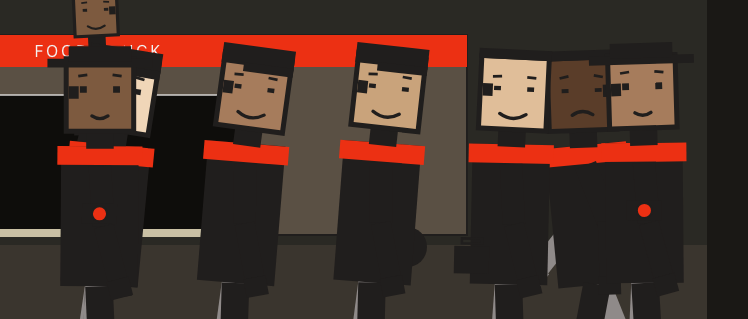
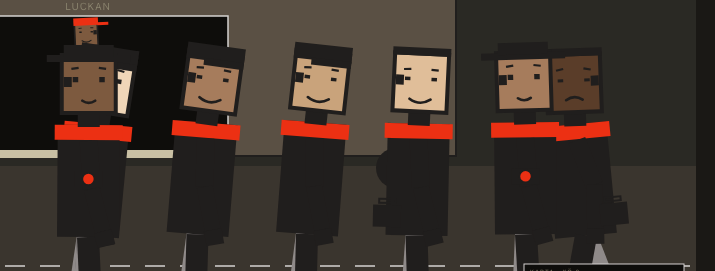
fix(foodtruck): ORDER 114 — skala kalibrerad mot wagon-geometri
VO-fynd 2026-08-17 (rev 5) mot faces.png:
  * Gästen står framför vagnen och täcker luckan.
  * Benen fortsätter under vagnens underkant.
  * Positionen — gästen står på luckans x-position i stället för vid
    disken. queue=0 och scene=1, så det kan vara en gäst i ordering-
    tillstånd. Även då ska hen stå vid disken, inte i öppningen.
  * Kontrollera y-basen för kö- och orderpositioner mot vagnens
    geometri.

Utredning mot geometrin:
  * Wagen: WAGON_TOP=220, WAGON_BOTTOM=620, WAGON_HEIGHT=400 units
  * Hatch: HATCH_Y=340, HATCH_H=280, hatch bottom=620 (samma som
    wagon-bottom — ingen wagon-panel under hatch)
  * Figur vid QUEUE_FIGURE_SCALE=2.5: total 316×2.5 = 790 units
  * **Figuren var 2× wagons höjd (790 vs 400)** → omöjligt att stå
    framför utan att täcka den
  * Face-läsbarhet hade prioriterats utan att kalibreras mot wagon-
    proportioner

Rot-orsak: face-läsbarhet vid CSS-nivå driver scale-valet, men wagon-
geometrin är fixed (scen-viewbox 2432×1080 med paneler som tar en
tredjedel). Vid scale 2.5 stod ordering-guest med:
  * Head-top vid world-y 220 (= wagon-top, huvud sticker upp vid taket)
  * Feet vid world-y 1050 (på gatan, korrekt)
  * Body y=220-1050 — täcker HELA wagon-height vertikalt

Fix — QUEUE_FIGURE_SCALE 2.5 → 2.0:
  * Figur-höjd: 316×2.0 = 632 units
  * Head-top-with-topping vid world-y 1020-320×2 = 380 (INUTI hatch
    340-620) — huvudet är i luckan, inte över wagon-top
  * Face-region vid world-y 412-528 (helt inuti hatch)
[…]

diff --git a/frontend/src/strategic/ui/foodtruck/FoodtruckScene.tsx b/frontend/src/strategic/ui/foodtruck/FoodtruckScene.tsx
@@ -59,22 +59,29 @@ const HATCH_Y = WAGON_TOP + 120;
 
 // Kö-slots — där gästerna står framför luckan. En slot per köande
 // gäst. Slot 0 är närmast luckan, resten sträcker sig åt vänster.
-// ORDER 114 Steg 2 DoD 3 — skalning kalibrerad mot faktiskt CSS-bredd.
+// ORDER 114 Steg 2 DoD 3 — skalning kalibrerad mot wagon-geometrin.
 //
-// **Rättad 2026-08-17 (rev 2)** efter VO-fynd mot faces.png:
-//   Härleder ALLA positions-mått ur `QUEUE_FIGURE_SCALE` +
-//   `RIG_PROTO_MAX_WIDTH_AT_SCALE_1` (definierad i rig.ts från
-//   prototypens uppmätta geometri). Inga hårdkodade pixel-värden
-//   för spacing/offset — ändras scale i framtiden följer allt annat
-//   automatiskt. Tidigare buggen "överlappande figurer" berodde på att
-//   QUEUE_SLOT_SPACING satts numeriskt (400) medan scale bumpades
-//   från 1.05 → 2.5 utan att spacing följde med.
+// **Rättad 2026-08-17 (rev 5)** efter VO-fynd mot faces.png:
+//   VO: "Gästen står framför vagnen och täcker luckan. Benen fortsätter
+//   under vagnens underkant. Kontrollera y-basen för kö- och order-
+//   positioner mot vagnens geometri."
 //
-// **Fynd per §6 (kvarstår):** 140 CSS-px per figur kan INTE nås vid
-// nuvarande scen-bredd (1216 CSS-px). Figur-aspect torso 62 : totalhöjd
-// 316 betyder 140 CSS-px bred = 630 CSS-px hög = 58% av scen-höjden.
-// Full 140 CSS-px kräver bredare scen (följdorder).
-const QUEUE_FIGURE_SCALE = 2.5;
+// Utredning: vid scale 2.5 var figuren 790 SVG-units hög (316 × 2.5),
+// medan wagon-höjden var 400 units. Figuren var **2× wagons höjd** →
+// omöjligt att stå framför utan att täcka den. Face-läsbarhet hade
+// prioriterats utan att kalibreras mot wagon-proportioner.
+//
+// **Ny kalibrering (scale 2.0):**
+//   * Figur-höjd: 316 × 2.0 = 632 units
+//   * Foot vid QUEUE_Y = 1020 → world-y 1044 (på gatan, under STREET_BOTTOM 1080)
+//   * Head-top-with-topping vid world-y 1020 - 314*2 = 392 (INUTI hatch 340-620) ✓
+//   * Face-region vid world-y 412-528 (helt inuti hatch) ✓
+//   * Face-bredd i CSS-px: 54 * 2.0 * 0.5 (CSS-ratio) = 54 CSS-px — läsbart
+//   * Ögon-bredd i CSS-px: 12 * 0.457 (Face-inner-SX) * 2.0 * 0.5 = 5.5 CSS-px
+//
+// Härleder ALLA positions-mått ur QUEUE_FIGURE_SCALE — spacing följer
+// automatiskt (rig.ts:RIG_PROTO_MAX_WIDTH_AT_SCALE_1).
+const QUEUE_FIGURE_SCALE = 2.0;
 
 // **Härledda spacing-konstanter** — allt skalas automatiskt med
 // `QUEUE_FIGURE_SCALE`.
@@ -100,13 +107,16 @@ const MAP_HEIGHT = 220;
 const MAP_MARGIN = 24;
 export const MAP_MIN_HEIGHT_PX = 180;
 
-// Personalens ansikte i luckan — mindre skala, en enda figur som
-// står stilla (idle-pose). ORDER 114 Steg 2 — bumpad till 1.6 så
-// luckans ansikte läses lika starkt som gäst-ansiktena (scale 2.5).
-// Y-position centrerad i luckan så personen står bakom counter.
+// Personalens ansikte i luckan — kalibrerad så att hela figuren får
+// plats INUTI hatch-öppningen (y=340-620, 280 units hög). Vid
+// STAFF_SCALE 0.85 blir total figur-höjd 316*0.85 = 269 units — nästan
+// exakt hatch-höjden. STAFF_Y = 607 placerar head-top vid y=340
+// (hatch-top) och feet vid y=617 (just innanför hatch-bottom).
+// Face-region hamnar vid y=348-398 (övre delen av hatch) — läses
+// som "personal-ansikte som tittar ut ur luckan".
 const STAFF_X = HATCH_X + HATCH_W / 2;
-const STAFF_Y = HATCH_Y + HATCH_H - 8;
-const STAFF_SCALE = 1.6;
+const STAFF_SCALE = 0.85;
+const STAFF_Y = HATCH_Y + Math.round(314 * STAFF_SCALE);  // = 340 + 267 = 607
 
 // ORDER 113 fel 2 — positioner för gäster i andra states än 'waiting'.
 // Före fel 2 renderade FoodtruckScene bara sim.waitingIds; gäster i
